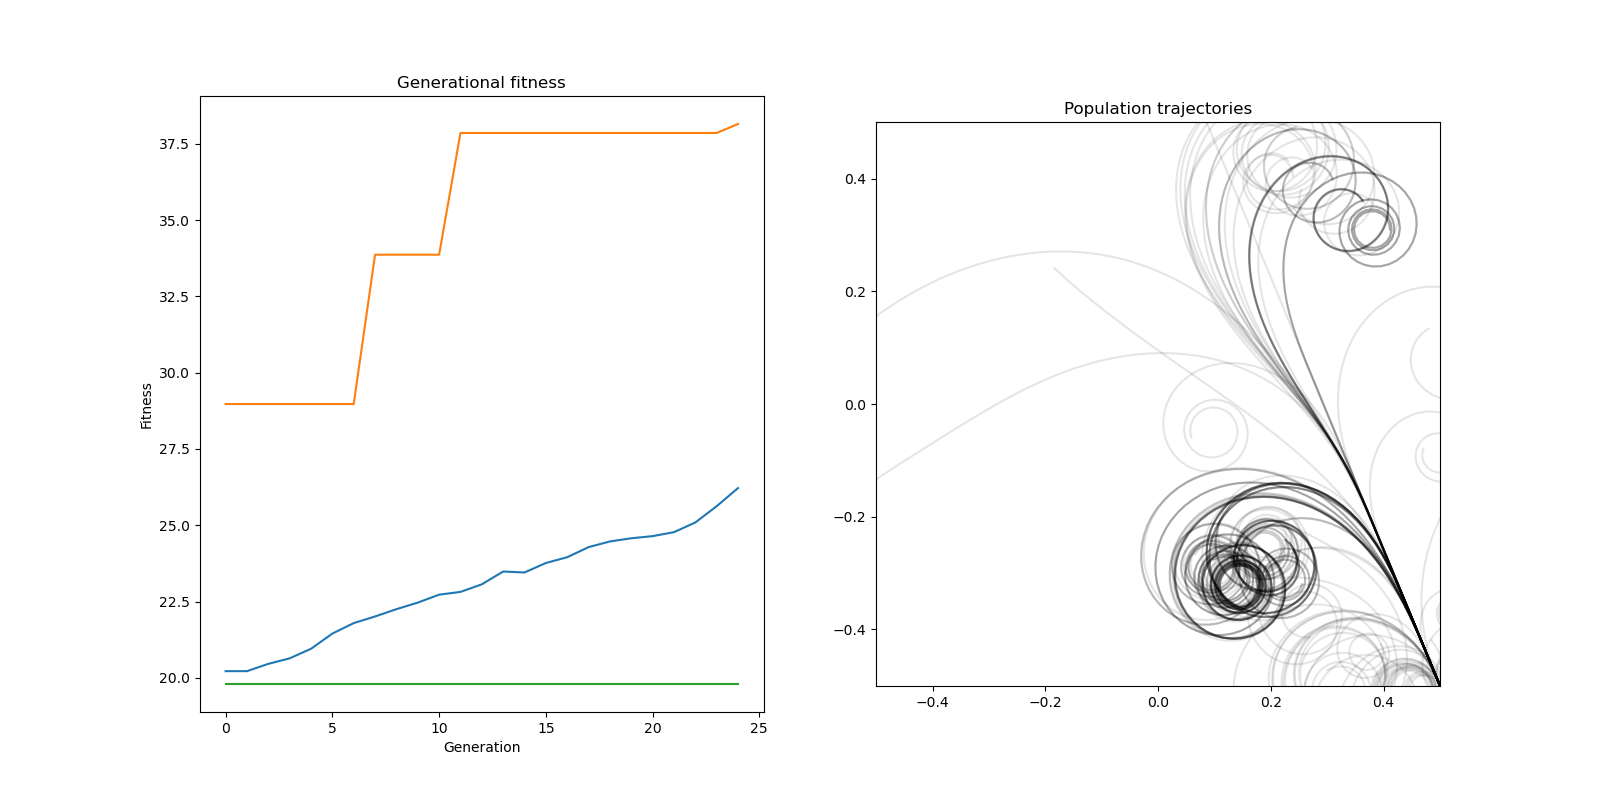
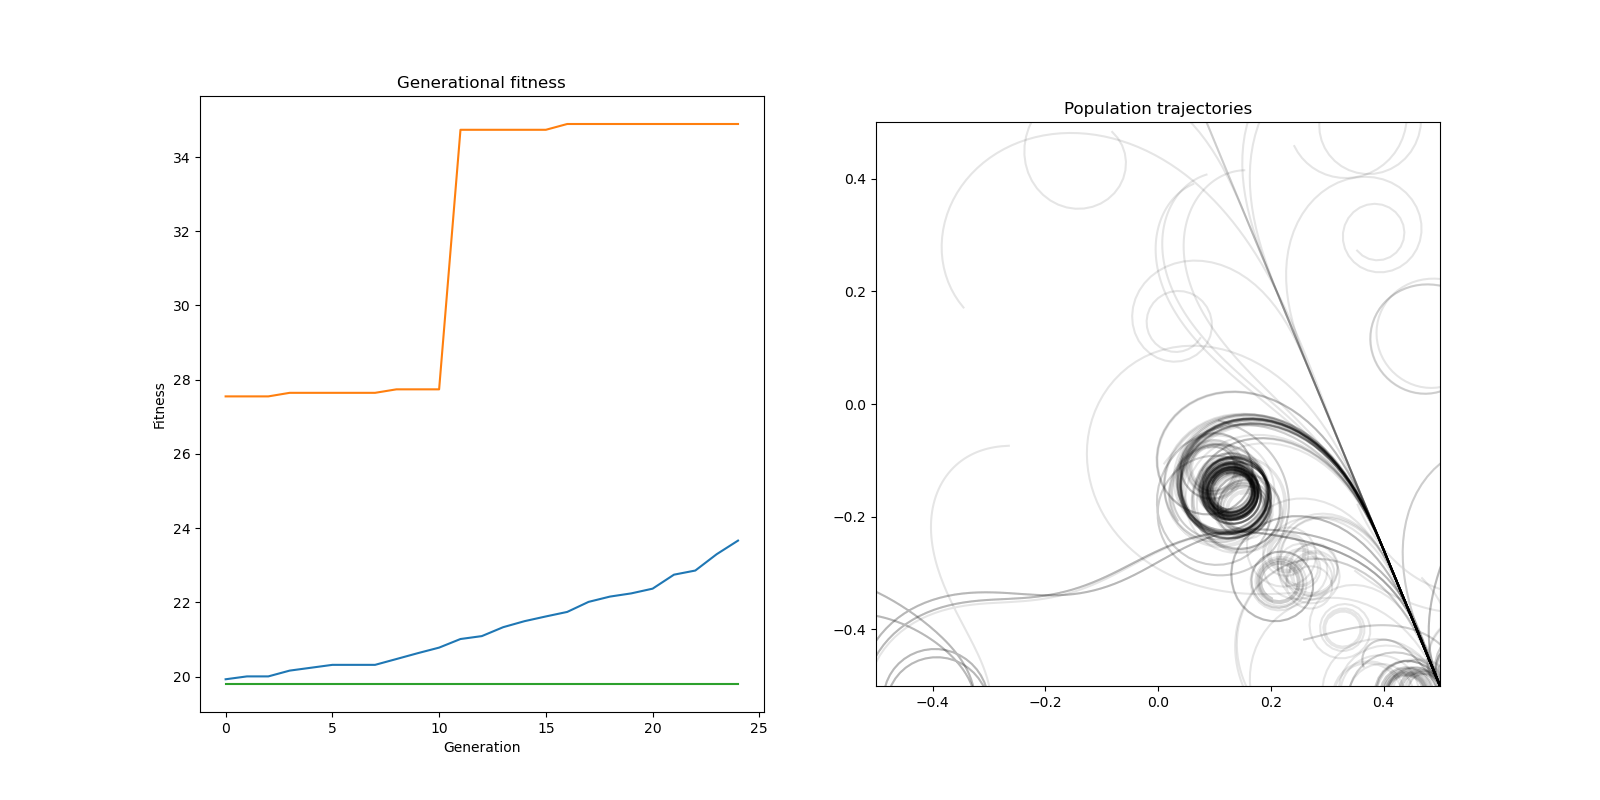
single battery working

diff --git a/diem/Animat.py b/diem/Animat.py
@@ -1,6 +1,6 @@
 import math, numpy as np, matplotlib.pyplot as plt, copy
 from Sides import Sides
-from Env import EnvObjectTypes, Env
+from Env import EnvObjectTypes, ConsumableTypes, Env
 from Network import Network
 from graphviz import Digraph
 from globals import DT
@@ -54,7 +54,7 @@ class Animat:
     self.nearest = [None for _ in EnvObjectTypes]
     self.dsq = [None for _ in EnvObjectTypes]
     self.motor_hist = [[] for _ in Sides]
-    self.sens_hist = [[[] for _ in EnvObjectTypes] for _ in Sides]
+    self.sens_hist = [[[] for _ in ConsumableTypes] for _ in Sides]
     self.dx = None
     self.dy = None
     self.dtheta = None
@@ -124,7 +124,7 @@ class Animat:
         encountered = copy.deepcopy(self.nearest[type.value])
         env.consumed.append(encountered)
         self.nearest[type.value].reset()
-        if encountered.type == 'FOOD' or encountered.type == 'WATER':
+        if any(encountered.type == type.name for type in ConsumableTypes):
           self.battery[type.value] = Animat.FULL_BATTERY
         else:
           self.battery = [0, 0]
@@ -132,9 +132,10 @@ class Animat:
       self.battery = [max(0, bat - Animat.DRAIN_RATE*DT) for bat in self.battery]
     # update battery and env
     self.fitness += sum(self.battery) * DT * 10
-    self.battery_hist[EnvObjectTypes.FOOD.value].append(self.battery[EnvObjectTypes.FOOD.value])
-    self.battery_hist[EnvObjectTypes.WATER.value].append(self.battery[EnvObjectTypes.WATER.value])
+    for type in ConsumableTypes:
+      self.battery_hist[type.value].append(self.battery[type.value])
 
+    # TODO toggle dual battery
     # if any(b <= 0 for b in self.battery):
     if sum(self.battery) <= 0:
       self.alive = False
@@ -188,33 +189,33 @@ def test_animat_trial(env, controller=None, show=True, save=False, fname=''):
 
   animat.evaluate(env)
 
-  
   ax.plot(animat.x_hist, animat.y_hist, 'ko', ms=1, alpha=0.5)
   ax.plot(animat.x_hist, animat.y_hist, ms=1, alpha=0.1)
   ax.add_patch(plt.Circle((animat.x, animat.y), Animat.RADIUS, color='black'))
   env.plot()
 
   multiplots = plots[1].subfigures(2,2)
+  type_colors = ['g', 'b']
+  side_colors = ['r', 'c']
 
   ax0 = multiplots[0][0].subplots()
   ax0.set_title('Battery')
-  ax0.plot(animat.battery_hist[EnvObjectTypes.FOOD.value], color='g')
-  ax0.plot(animat.battery_hist[EnvObjectTypes.WATER.value], color='b')
-
+  for type in ConsumableTypes:
+    ax0.plot(animat.battery_hist[type.value], color=type_colors[type.value])
+    
   ax1 = multiplots[0][1].subplots(2,1)
   ax1[0].set_title('Left sensors')
-  ax1[0].plot(animat.sens_hist[Sides.LEFT.value][EnvObjectTypes.FOOD.value], color='g')
-  ax1[0].plot(animat.sens_hist[Sides.LEFT.value][EnvObjectTypes.WATER.value], color='b')
   ax1[1].set_title('Right sensors')
-  ax1[1].plot(animat.sens_hist[Sides.RIGHT.value][EnvObjectTypes.FOOD.value], color='g')
-  ax1[1].plot(animat.sens_hist[Sides.RIGHT.value][EnvObjectTypes.WATER.value], color='b')
+  for side in Sides:
+    for type in EnvObjectTypes:
+      ax1[side.value].plot(animat.sens_hist[side.value][type.value], color=type_colors[type.value])
   
   ax2 = multiplots[1][0].subplots(2,1)
   ax2[0].set_title('Left motor')
-  ax2[0].plot(animat.motor_hist[Sides.LEFT.value], color='r')
   ax2[1].set_title('Right motor')
-  ax2[1].plot(animat.motor_hist[Sides.RIGHT.value], color='g')
-  
+  for side in Sides:
+    ax2[side.value].plot(animat.motor_hist[side.value], color=side_colors[side.value])
+      
   ax3 = multiplots[1][1].subplots()
   ax3.set_title('Chemical concentrations')
   color = ['r','g','b','c','m','y']

diff --git a/diem/Network.py b/diem/Network.py
@@ -3,7 +3,7 @@ from Sides import Sides
 from collections import Counter
 import copy
 import numpy as np
-from Env import EnvObjectTypes
+from Env import ConsumableTypes, EnvObjectTypes
 from globals import DT, AGGREGATION, MUTATION_RATE
 
 
@@ -125,7 +125,7 @@ class Reaction:
 
 class Network:
 
-  N_INIT_CHEMICALS = 6
+  N_INIT_CHEMICALS = 4
   N_INIT_REACTIONS = 4
 
   OUTPUT_LEFT = 0
@@ -216,17 +216,24 @@ class Network:
     # set decay
     for chemical in self.chemicals:
       chemical.prep_update()
+
+    # TODO uncomment if using natural dconc for inputs
     # add sensor inputs
-    self.chemicals[Network.FOOD_LEFT].prep_update(readings[Sides.LEFT.value][EnvObjectTypes.FOOD.value])
-    self.chemicals[Network.FOOD_RIGHT].prep_update(readings[Sides.RIGHT.value][EnvObjectTypes.FOOD.value])
-    self.chemicals[Network.WATER_LEFT].prep_update(readings[Sides.LEFT.value][EnvObjectTypes.WATER.value])
-    self.chemicals[Network.WATER_RIGHT].prep_update(readings[Sides.RIGHT.value][EnvObjectTypes.WATER.value])
+    # for type in EnvObjectTypes:
+    #   for side in Sides:
+    #     self.chemicals[getattr(Network, f'{type.name}_{side.name}')].prep_update(readings[side.value][type.value])
+
     # set reaction changes
     for reaction in self.reactions:
       reaction.prep_update()
     # update chemicals
     for chemical in self.chemicals:
       chemical.update()
+    
+    # TODO uncomment if using natural dconc for inputs
+    for type in EnvObjectTypes:
+      for side in Sides:
+        self.chemicals[getattr(Network, f'{type.name}_{side.name}')].conc = readings[side.value][type.value]
     
     return self.chemicals[Network.OUTPUT_LEFT].conc, self.chemicals[Network.OUTPUT_RIGHT].conc
 

diff --git a/diem/__main__.py b/diem/__main__.py
@@ -20,7 +20,7 @@ if __name__ == '__main__':
       gen = batch * BATCH_SIZE + repeat
       print(gen)
       max[gen], mean[gen], min[gen], best = pop.eval(batch)
-      if best.fitness > highest_fitness + 0.01:
+      if best.fitness > highest_fitness + 0.0001:
         highest_fitness = best.fitness
         test_animat_trial(env=Env(batch), controller=best.controller.deep_copy(), show=False, save=True, fname=batch)
       pop.evolve()

diff --git a/diem/Env.py b/diem/Env.py
@@ -3,8 +3,12 @@ from enum import Enum
 
 class EnvObjectTypes(Enum):
   FOOD = 0
-  WATER = 1
+  # WATER = 1
   # TRAP = 2
+
+class ConsumableTypes(Enum):
+  FOOD = 0
+  # WATER = 1
 
 class EnvObject:
 
@@ -38,7 +42,7 @@ class Env:
   MAX_Y = 0.5
   MIN_X = -0.5
   MIN_Y = -0.5
-  N_OBJECTS = [2, 2, 0]
+  N_OBJECTS = [2, 0, 0]
 
   def __init__(self, rstate):
     self.rstate = np.random.default_rng(rstate)
